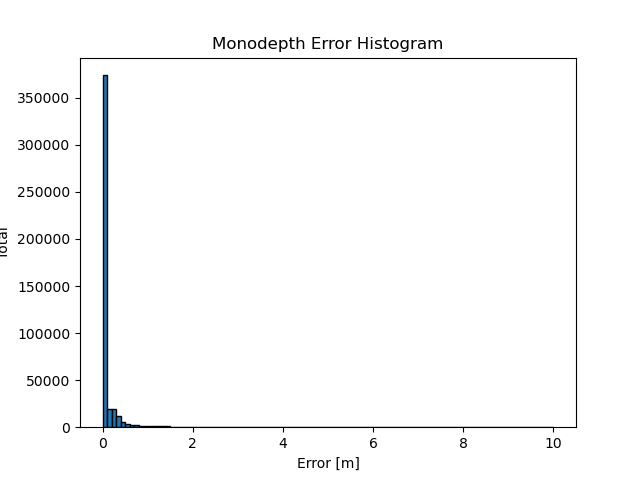
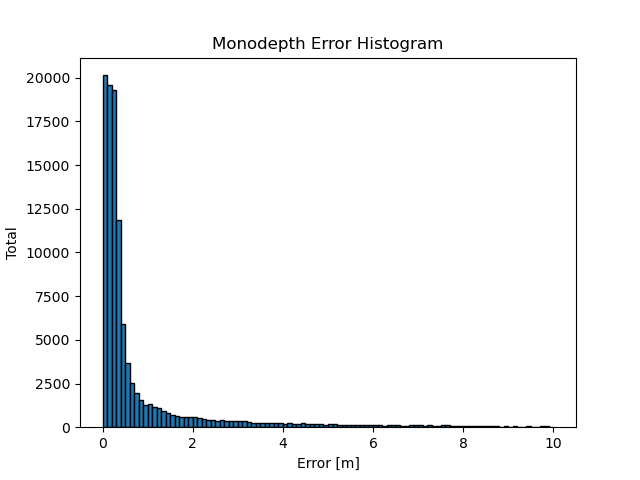
Histogram fixes

diff --git a/A3/code/assign3_task4.py b/A3/code/assign3_task4.py
@@ -116,8 +116,8 @@ def comparing_methods():
         print(f'(Monodepth) \t {i + 1}. {" ".join(pred_files[i].split(".")[:-1])} : {mono_rmse}')
         print(f'(Unimatch) \t {i + 1}. {" ".join(unimatch_files[i].split(".")[:-1])} : {unimatch_rmse}')
 
-        pred_mask = predicted_abs_diff <= 10
-        unimatch_mask = unimatch_abs_diff <= 10
+        pred_mask = (predicted_abs_diff > 0) & (predicted_abs_diff <= 10)
+        unimatch_mask = (unimatch_abs_diff > 0) & (unimatch_abs_diff <= 10)
 
         fig = plt.figure()
         predicted_abs_diff = predicted_abs_diff[pred_mask]
